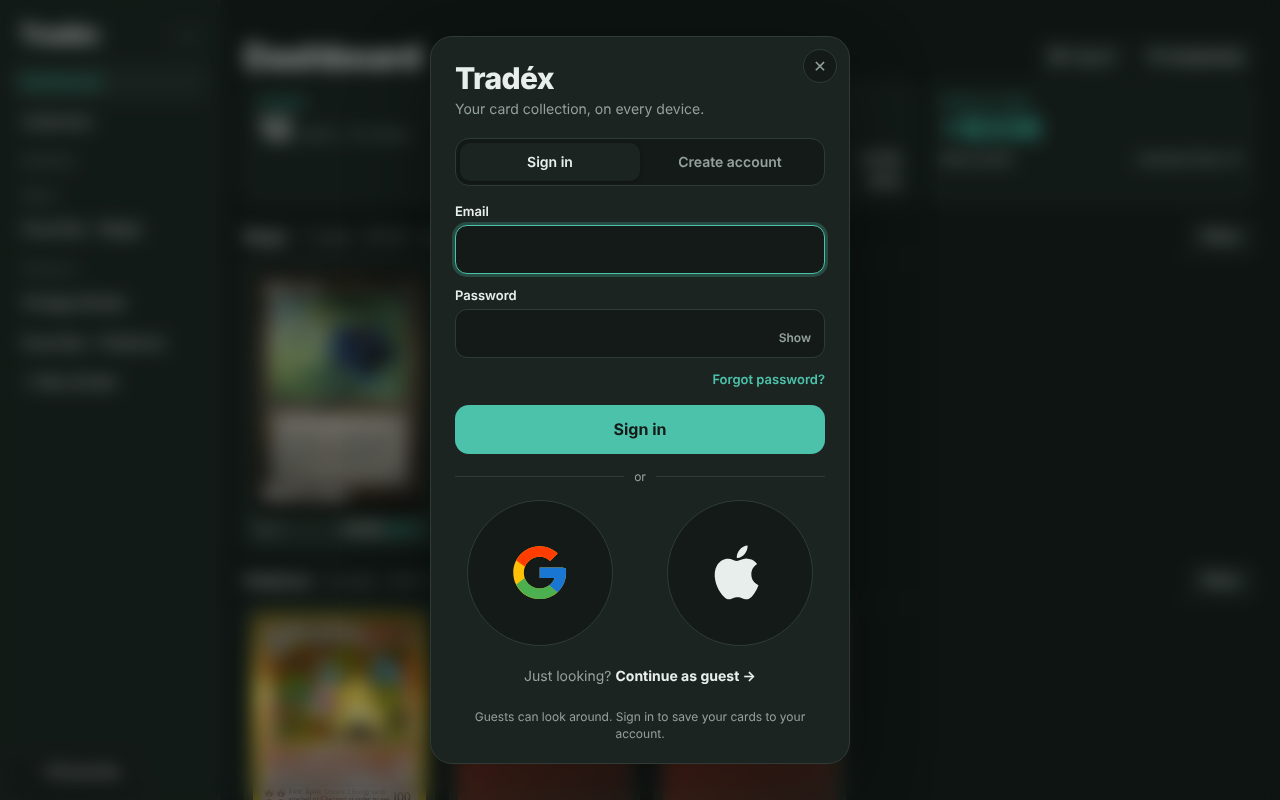
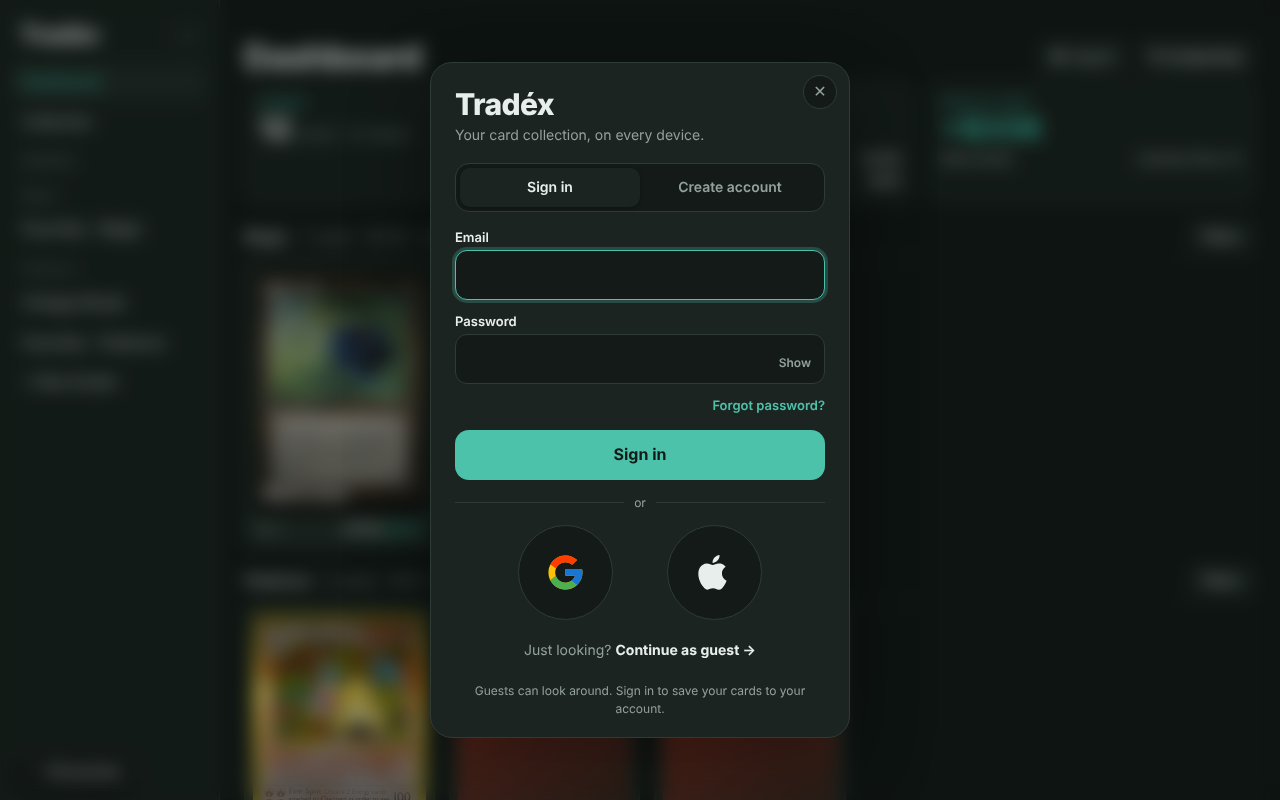
Shrink the Google and Apple sign-in circles to 95px (#5)
Claude-Session: https://claude.ai/code/session_01K6ofJxh6QarDQ2gKnJ83gJ

diff --git a/js/account.js b/js/account.js
@@ -131,7 +131,7 @@ const css=`#txa{position:fixed;inset:0;z-index:100000;display:flex;align-items:c
 #txa .go2{width:100%;padding:12px;border-radius:14px;border:1px solid var(--line);background:var(--bg);color:inherit;font-family:inherit;font-weight:600;font-size:15px;cursor:pointer;margin:8px 0 0;display:flex;align-items:center;justify-content:center;gap:10px}
 #txa .go2 svg{width:18px;height:18px}
 #txa .oauth{display:flex;justify-content:center;gap:54px;margin:10px 0 8px}
-#txa .circ{width:min(146px,calc((100% - 54px) / 2));height:auto;aspect-ratio:1;border-radius:50%;border:1px solid var(--line);background:var(--bg);color:inherit;display:grid;place-items:center;padding:0;margin:0;cursor:pointer;transition:transform .15s,border-color .15s}
+#txa .circ{width:95px;height:95px;flex:0 0 95px;border-radius:50%;border:1px solid var(--line);background:var(--bg);color:inherit;display:grid;place-items:center;padding:0;margin:0;cursor:pointer;transition:transform .15s,border-color .15s}
 #txa .circ:hover{border-color:var(--acc);transform:translateY(-1px)}#txa .circ:focus-visible{outline:none;box-shadow:0 0 0 3px color-mix(in srgb,var(--acc) 35%,transparent)}
 #txa .circ svg{width:44%;height:44%}
 #txv{position:fixed;left:50%;bottom:calc(16px + env(safe-area-inset-bottom,0px));transform:translateX(-50%);z-index:9000;display:flex;align-items:center;gap:10px;max-width:calc(100% - 24px);box-sizing:border-box;
